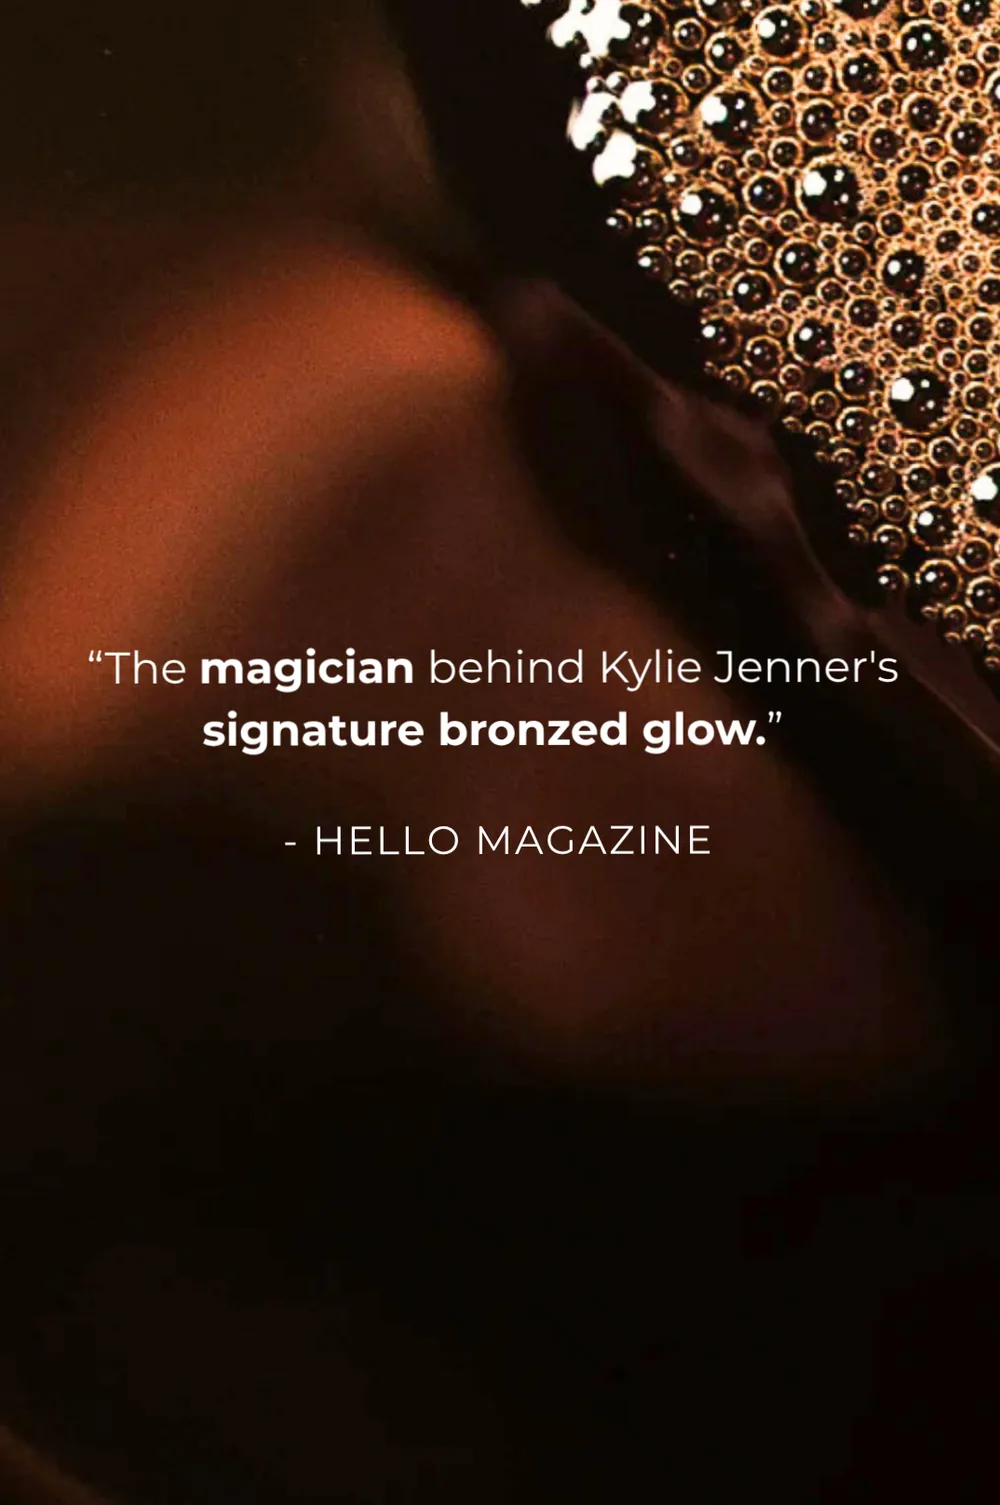
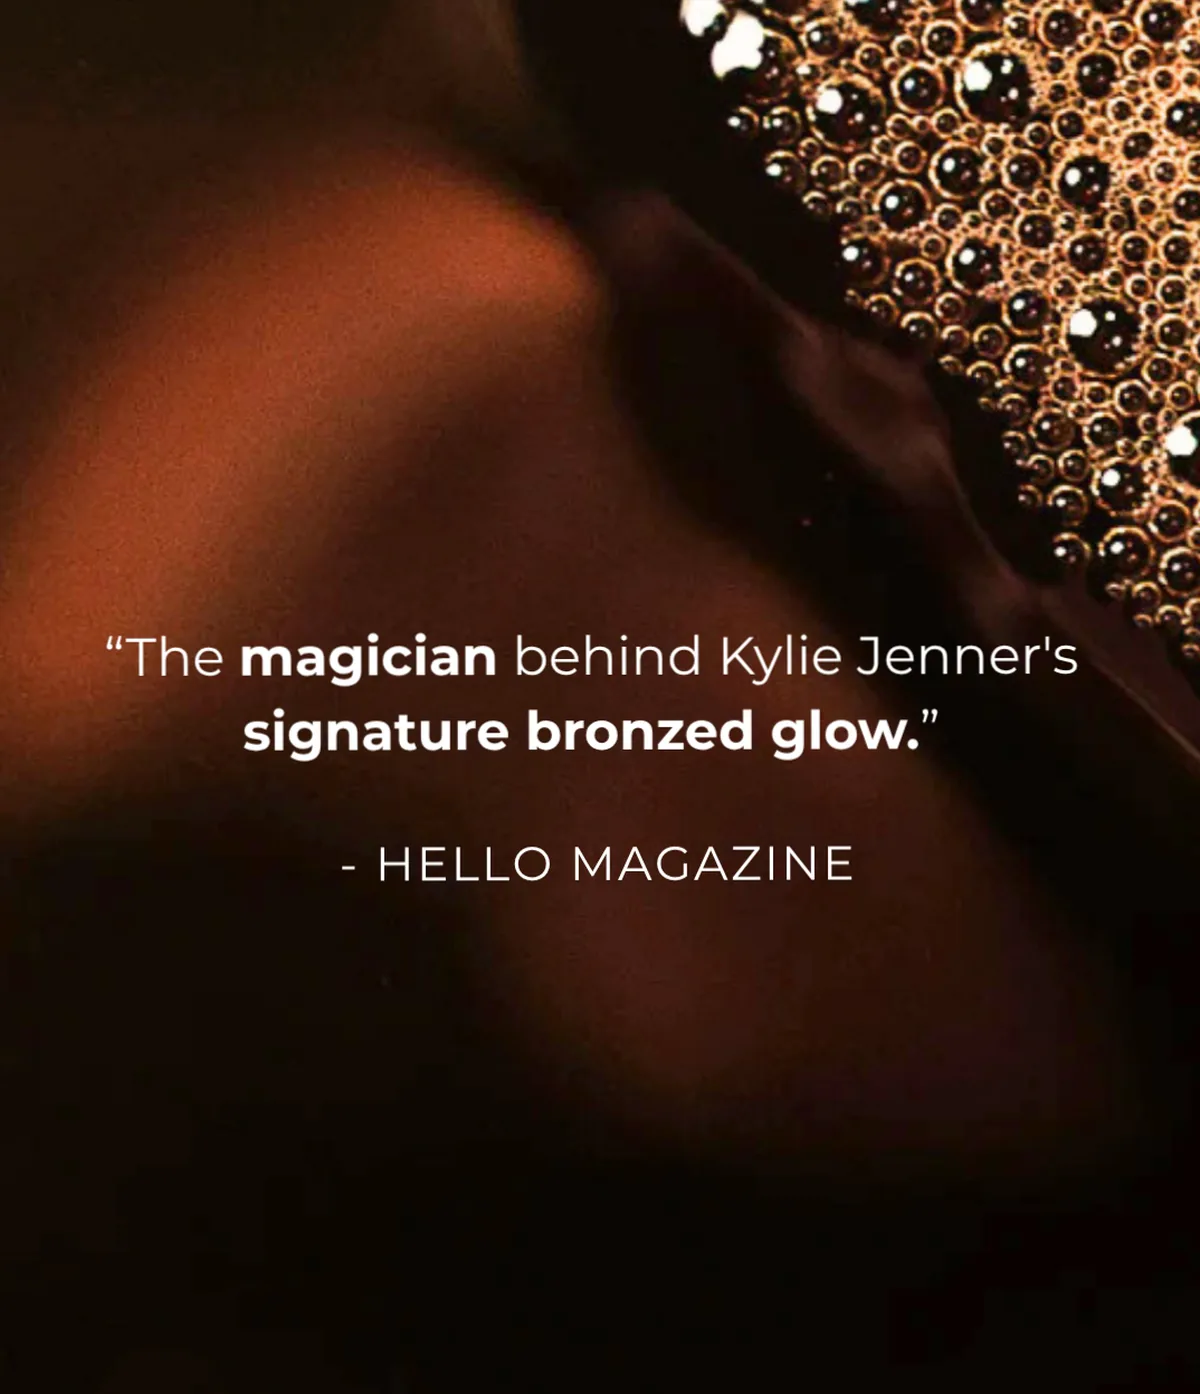
imageupdate

diff --git a/pro-site/app/styles/home.css b/pro-site/app/styles/home.css
@@ -263,13 +263,14 @@
   .facts-tag{text-align:center;font-size:18px;color:#B7AB9B;margin-top:32px}
   .facts-tag b{color:var(--gold)}
   /* editorial duo */
-  .glow-duo{background:var(--paper);padding:clamp(48px,6vw,88px) 0}
-  .glow-duo .wrap{max-width:none;width:100%;padding:0 clamp(24px,3.5vw,72px)}
-  .gd-grid{display:grid;grid-template-columns:repeat(2,minmax(0,1fr));gap:clamp(16px,2.2vw,40px)}
-  .gd-shot{margin:0;border-radius:8px;overflow:hidden;box-shadow:var(--shadow);background:#EFE7DE}
-  .gd-shot img{display:block;width:100%;height:100%;aspect-ratio:1000/1505;object-fit:cover}
+  .glow-duo{background:var(--paper);padding:0}
+  .glow-duo .wrap{max-width:none;width:100%;padding:0}
+  .gd-grid{display:grid;grid-template-columns:repeat(2,minmax(0,1fr));gap:0}
+  .gd-shot{margin:0;overflow:hidden;background:#EFE7DE;line-height:0}
+  .gd-shot img{display:block;width:100%;height:clamp(380px,34vw,620px);object-fit:cover;object-position:50% 45%}
   @media (max-width:820px){
-    .gd-grid{grid-template-columns:1fr;gap:18px}
+    .gd-grid{grid-template-columns:1fr}
+    .gd-shot img{height:clamp(300px,68vw,460px)}
   }
   /* retail */
   .retail{background:var(--cream)}

diff --git a/pro-site/app/components/home/HomeSections.tsx b/pro-site/app/components/home/HomeSections.tsx
@@ -99,7 +99,7 @@ export function GlowDuo() {
     ["signature-glow.webp", "Press quote from Hello Magazine calling Jimmy Coco the magician behind Kylie Jenner's signature bronzed glow"],
     ["sunless-bikini.webp", "Sun-kissed tan finish with a Sunless by Jimmy Coco branded towel"],
   ];
-  return <section className="glow-duo"><div className="wrap"><div className="gd-grid">{shots.map(([src, alt]) => <figure className="gd-shot" key={src}><img src={`${A}${src}`} alt={alt} width="1000" height="1505" loading="lazy" decoding="async" sizes="(max-width: 820px) 100vw, 50vw" /></figure>)}</div></div></section>;
+  return <section className="glow-duo"><div className="wrap"><div className="gd-grid">{shots.map(([src, alt]) => <figure className="gd-shot" key={src}><img src={`${A}${src}`} alt={alt} width="1200" height="1394" loading="lazy" decoding="async" sizes="(max-width: 820px) 100vw, 50vw" /></figure>)}</div></div></section>;
 }
 
 export function Trial({ monthlyProfit }: { monthlyProfit: number }) {
